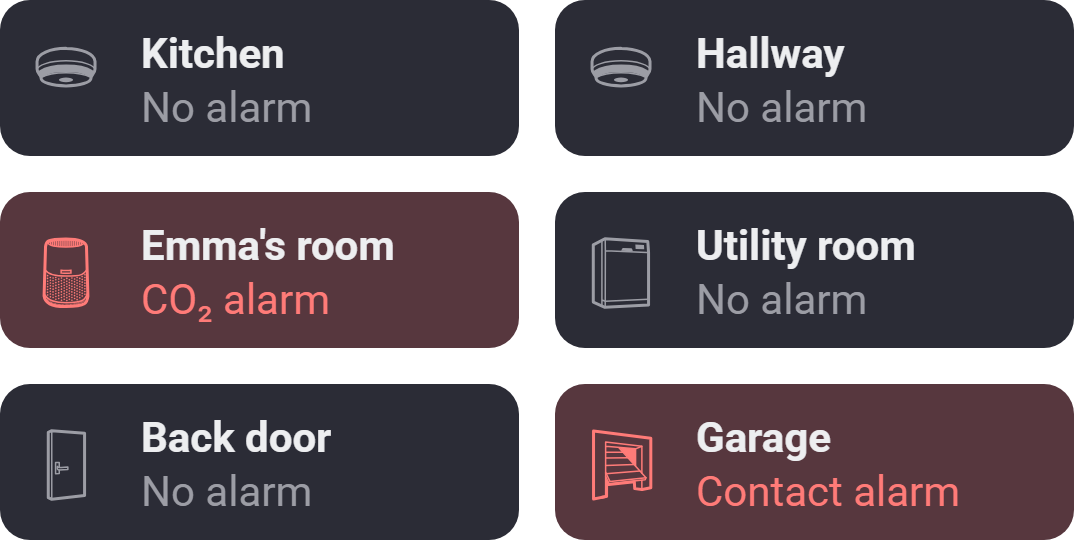
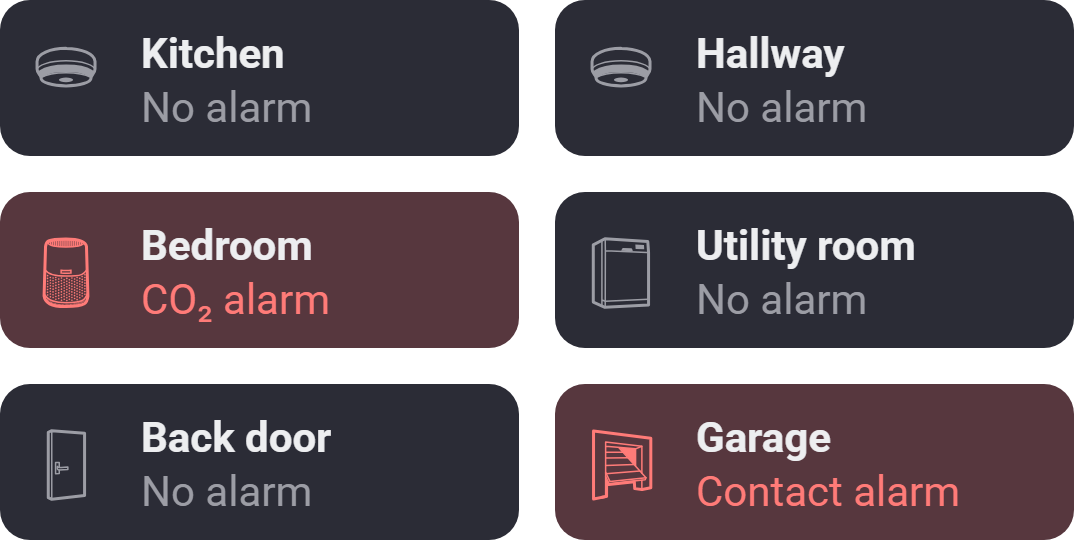
Showcases: Garden dots visible, one house at 18:40
The Garden's Activity Dots overlay covered its only row, so no dot
showed: three more garden sensors give it a second row. The made-up
house now agrees across dashboards: the back door locked on Evening,
the CO2 alarm in the bedroom (1,210 ppm, not Emma's room at 783), the
driveway quiet on Garden as on Security (the person is on the side
path). The web settings view's Flow Buttons draw the dialog's four
buttons. Stale comments fixed; renders, the Sensor Alarms screenshot
and the forum images redone.

Changed region(s): [[0.1229, 0.4148, 0.3687, 0.5037]]

diff --git a/dev/showcase-data.js b/dev/showcase-data.js
@@ -197,7 +197,8 @@
   const smokeAndWater = [
     { id: 's1', name: 'Kitchen', icon: icon('smoke-detector'), alarms: [alarm('alarm_smoke', false, 'Smoke alarm'), alarm('alarm_heat', false, 'Heat alarm')] },
     { id: 's2', name: 'Hallway', icon: icon('smoke-detector'), alarms: [alarm('alarm_smoke', false, 'Smoke alarm')] },
-    { id: 's3', name: "Emma's room", icon: icon('air-purifier'), alarms: [alarm('alarm_co2', true, 'CO₂ alarm'), alarm('alarm_radon', false, 'Radon alarm')] },
+    // The bedroom's CO₂ alarm: 1,210 ppm on the Climate dashboard (Emma's room's 783 ppm is fine).
+    { id: 's3', name: 'Bedroom', icon: icon('air-purifier'), alarms: [alarm('alarm_co2', true, 'CO₂ alarm'), alarm('alarm_radon', false, 'Radon alarm')] },
     { id: 's4', name: 'Utility room', icon: icon('washing-machine'), alarms: [alarm('alarm_water', false, 'Water alarm')] },
   ];
 
@@ -427,7 +428,7 @@
             { id: 'g2', name: 'Doorbell', icon: icon('doorbell'), quickAction: { capabilityId: 'button', value: true, actionable: true, momentary: true, icon: null } },
             { id: 'g3', name: 'Router', icon: icon('router'), quickAction: qa('onoff', true) },
           ] },
-          // The open garage is in the second row (7 or 8 dots per row), so its overlay leaves the hallway's red dot showing.
+          // The open garage is in the second row (7 or 8 dots per row), so its overlay leaves the hallway's blue dot showing.
           { type: 'sensordots', opts: { locale: 'en-GB', title: 'Doors and motion' }, open: 'd9', devices: [
             contactDot('d1', 'Front door', false, 52), motionDot('d2', 'Hallway', true, 1),
             contactDot('d3', 'Back door', false, 95), motionDot('d4', 'Kitchen', false, 6),
@@ -496,7 +497,7 @@
             { id: 'eq2', name: 'Speaker', icon: icon('speaker'), quickAction: qa('onoff', true) },
             { id: 'eq3', name: 'Kettle', icon: icon('kettle'), quickAction: qa('onoff', false) },
             { id: 'eq4', name: 'Front door', icon: icon('lock'), quickAction: qa('locked', true) },
-            { id: 'eq5', name: 'Back door', icon: icon('lock'), quickAction: qa('locked', false) },
+            { id: 'eq5', name: 'Back door', icon: icon('lock'), quickAction: qa('locked', true) },
             { id: 'eq6', name: 'Dishwasher', icon: icon('socket'), quickAction: qa('onoff', false) },
           ] },
           heatPump,
@@ -551,12 +552,16 @@
             ['flow:gb2', 'Mow the lawn', 'green', 'play'],
             ['flow:gb3', 'Garden lights for an hour', 'yellow', 'bulb'],
           ]),
-          // The driveway (a person, just now) has its overlay open; the open greenhouse stays blue below it.
-          { type: 'sensordots', opts: { locale: 'en-GB', title: 'Outside' }, open: 'gd3', devices: [
+          // The side path (a person, just now) has its overlay open. It covers the side path's row, so the side path is in the
+          // second row (7 or 8 dots per row) and the first still shows, the open greenhouse in blue. The driveway went quiet
+          // 9 minutes ago, as on Security.
+          { type: 'sensordots', opts: { locale: 'en-GB', title: 'Outside' }, open: 'gd5', devices: [
             contactDot('gd1', 'Gate', false, 47), motionDot('gd2', 'Terrace', false, 75),
-            { id: 'gd3', name: 'Driveway', icon: null, alarms: [sensor('alarm_motion', true, 'Motion alarm', 2), sensor('alarm_person', true, 'Person Detected', 2)] },
-            contactDot('gd4', 'Shed', false, 1500), motionDot('gd5', 'Side path', false, 33),
-            contactDot('gd6', 'Greenhouse', true, 260), contactDot('gd7', 'Carport', false, 1100),
+            { id: 'gd3', name: 'Driveway', icon: null, alarms: [sensor('alarm_motion', false, 'Motion alarm', 9), sensor('alarm_person', false, 'Person Detected', 9)] },
+            contactDot('gd4', 'Shed', false, 1500), contactDot('gd6', 'Greenhouse', true, 260),
+            contactDot('gd7', 'Carport', false, 1100), contactDot('gd8', 'Back gate', false, 380), motionDot('gd9', 'Garden path', false, 48),
+            { id: 'gd5', name: 'Side path', icon: null, alarms: [sensor('alarm_motion', true, 'Motion alarm', 2), sensor('alarm_person', true, 'Person Detected', 2)] },
+            contactDot('gd10', 'Letterbox', false, 320),
           ] },
         ],
       ],

diff --git a/dev/web-showcase.html b/dev/web-showcase.html
@@ -115,8 +115,9 @@
     const BOARD = VIEW === 'light' ? LIGHT_BOARD : params.get('d') || 'home';
     const HASH = VIEW === 'front' ? '#/' : VIEW === 'editor' || VIEW === 'settings' ? `#/d/${BOARD}/edit` : `#/d/${BOARD}`;
 
-    // The settings view: Home's Flow Buttons set up as the showcase draws them (four buttons), and the dialog drawn
-    // inside the window: shown non-modal over a backdrop of its own, since a modal one sits over the whole render.
+    // The settings view: Home's Flow Buttons with four buttons, in its settings and drawn alike behind the dialog (the
+    // showcase's has two), and the dialog drawn inside the window: shown non-modal over a backdrop of its own, since a
+    // modal one sits over the whole render.
     const SETTINGS_WIDGET = 'home-0-2';
     if (VIEW === 'settings') {
       const flows = BOARDS.find(b => b.id === 'home').columns.flat().find(w => w.id === SETTINGS_WIDGET);
@@ -126,6 +127,11 @@
         [`flow${i + 1}`]: { id: `flow:${i + 1}`, name }, [`color${i + 1}`]: color,
         [`icon${i + 1}`]: { id: icon, name: iconName }, [`name${i + 1}`]: '',
       }));
+      ENTRY.set(SETTINGS_WIDGET, {
+        ...ENTRY.get(SETTINGS_WIDGET),
+        opts: { columns: '2', buttons: buttons.map(([, color, icon], i) => ({ id: `flow:${i + 1}`, color, icon })) },
+        flows: buttons.map(([name], i) => ({ id: `flow:${i + 1}`, name, enabled: true, triggerable: true, advanced: false })),
+      });
       HTMLDialogElement.prototype.showModal = function () {
         this.show();
         const viewport = document.querySelector('.viewport');

diff --git a/dev/schemes-preview.html b/dev/schemes-preview.html
@@ -242,7 +242,7 @@
           ],
         } });
       }],
-      ['Activity Dots', 'the driveway active', (el, o) => MOUNT.sensordots(el, { ...findWidget('sensordots', 1),
+      ['Activity Dots', 'the side path active', (el, o) => MOUNT.sensordots(el, { ...findWidget('sensordots', 1),
         open: null, opts: { ...findWidget('sensordots', 1).opts, ...o } })],
       ['Weather Forecast', 'Vivid is a theme', (el, o) => MOUNT.weather(el, { hours: findWidget('weather').hours,
         opts: { theme: o.colorStyle === 'deep' ? 'card' : 'default', density: o.color ? 'detailed' : 'compact' } }), 'wf-frame', true],

diff --git a/.claude/rules/widgets/sensordots.md b/.claude/rules/widgets/sensordots.md
@@ -10,6 +10,6 @@ paths:
 - One device-style tile (Quick Actions' `#181920`, radius and rim; the overlay `#2E3039`), transparent. `title` (empty) adds a header (`.sd-header`); the grid is its own element, so the overlay covers only a row. Each dot is a 44 px touch target (`auto-fill`), 7 per row at 358 px.
 - No service: `widgets/sensordots/api.ts` calls `app.sensorAlarms.getState()` and keeps `ACTIVITY_CAPS` (`activityAlarms()`, by base id): Sensor Alarms' `STATE_ALARMS`, the `state: true` alarms (`alarm_motion`, `alarm_presence`, `alarm_contact`, `alarm_person`, `alarm_vehicle`, `alarm_pet`) and `alarm_vibration` (wk-049, the Aqara lumi.vibration.aq1; Sensor Alarms still counts it as an alarm, the user's choice, 2026-10-16), returning `{devices, language}`; the widget listens to `sensoralarms:state`. The device picker filters on those seven. `alarm_presence` is the mmWave sensors' (wk-032: the Aqara FP300 has it beside `alarm_motion`; Shelly, SwitchBot and LinknLink drivers too, some with only it or `alarm_presence.zoneN`).
 - "Since" comes from `SensorAlarm.lastUpdated` (ms: homey-api makes `capabilitiesObj[id].lastUpdated` a `Date`, Homey's own JSON an ISO string, and `lastUpdatedMs()` takes both; until 2026-10-17 it only took the string, so no load ever had a time) and the event's `t`.
-- A tap opens an overlay (`.sd-panel`) over the dot's row, placed like Light Controls' swatch panel (absolute at the dot's `offsetTop`/`offsetHeight`), so the height doesn't change: a small dot, the name (14 bold), ` · `, the state (muted; red while active). A tap on it closes it, another dot moves it, it follows the row on resize.
+- A tap opens an overlay (`.sd-panel`) over the dot's row, placed like Light Controls' swatch panel (absolute at the dot's `offsetTop`/`offsetHeight`), so the height doesn't change: a small dot, the name (14 bold), ` · `, the state (muted; while active, the active colour mixed with the text, as above). A tap on it closes it, another dot moves it, it follows the row on resize.
 - `stateText()`: active → `Open` (contact), `Motion`, `Presence`, `Vibration`, else the capability's title (`Person Detected`), joined with `, `; idle → `Closed`, `No presence`, `No motion`, `No vibration` or `Nothing detected` (the first that applies); no value → `–`. Then `since 18:17` from the newest `lastUpdated` of the active ones (of all when idle): today's time, `Tue 07:15` within 6 days, else `28 Sep` (`formatSince()`: times in the device locale or `opts.locale`, names in Homey's language; 24 or 12 hours by `timeFormat`, "Time format", last: the Clock's, wk-085).
 - Colour style (`colorStyle`, Muted/Vivid; CLAUDE.md *Widget styling*, `kit.css`): after `activeColor`. Muted: the six colours are kit.css's shades (`--sd-c-*`; grey stays; the old `#0091EA` blue fallback is gone); Vivid: the bright colours. The user swapped them (round 2, 2026-10-18).
